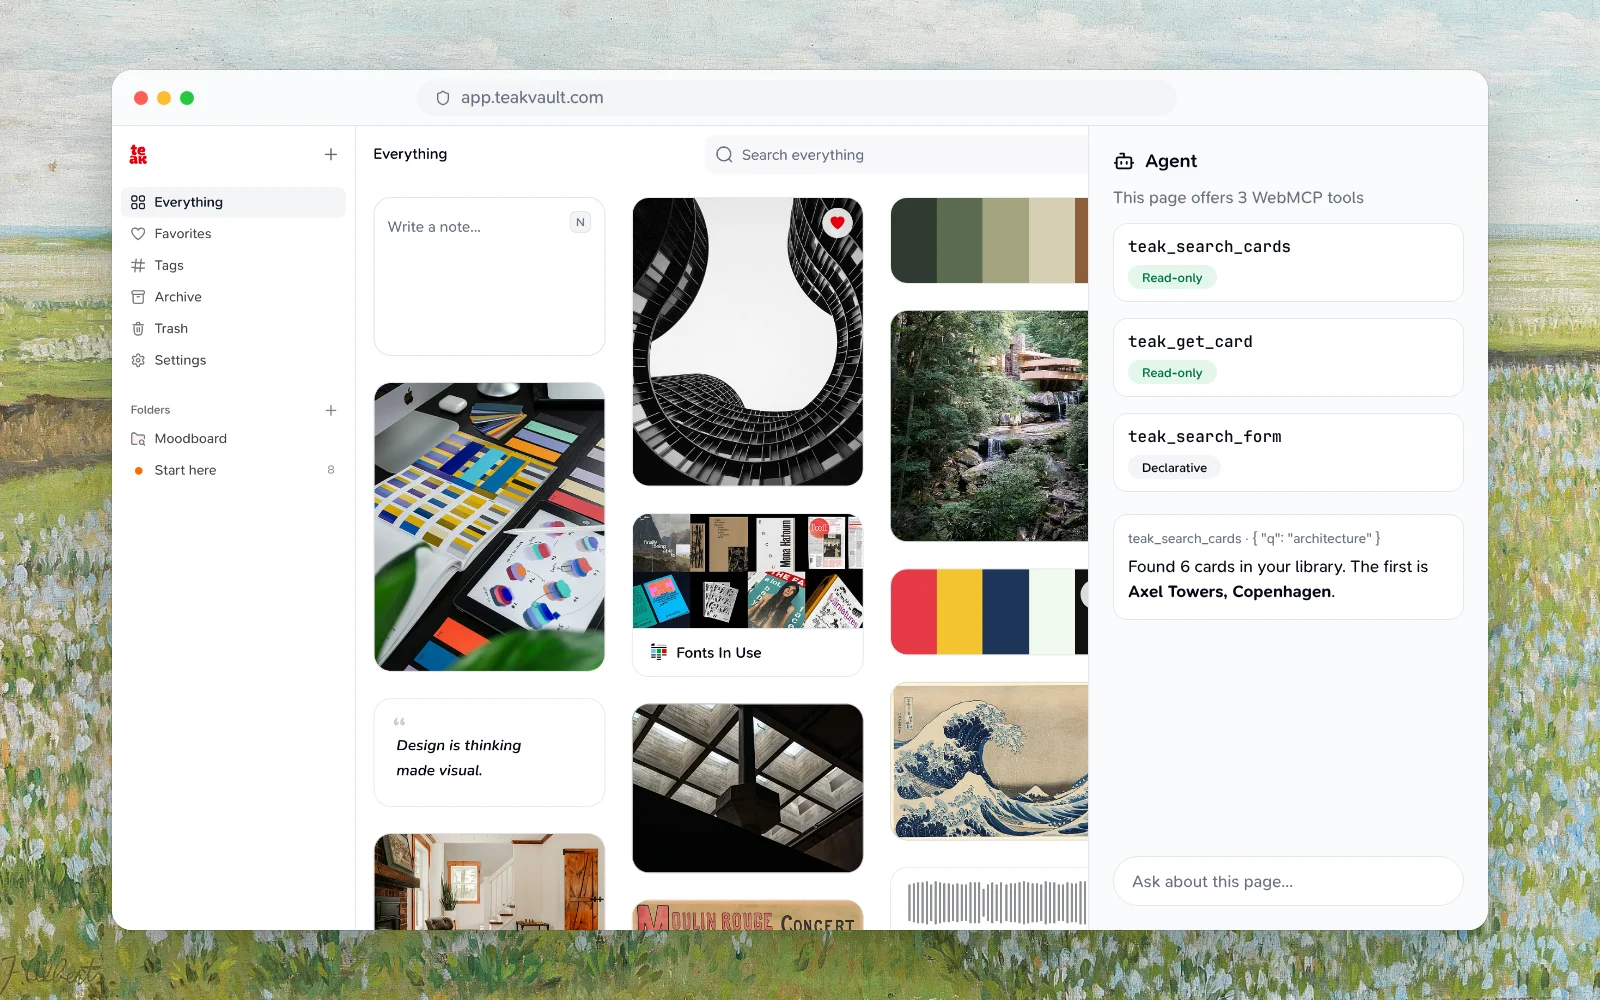
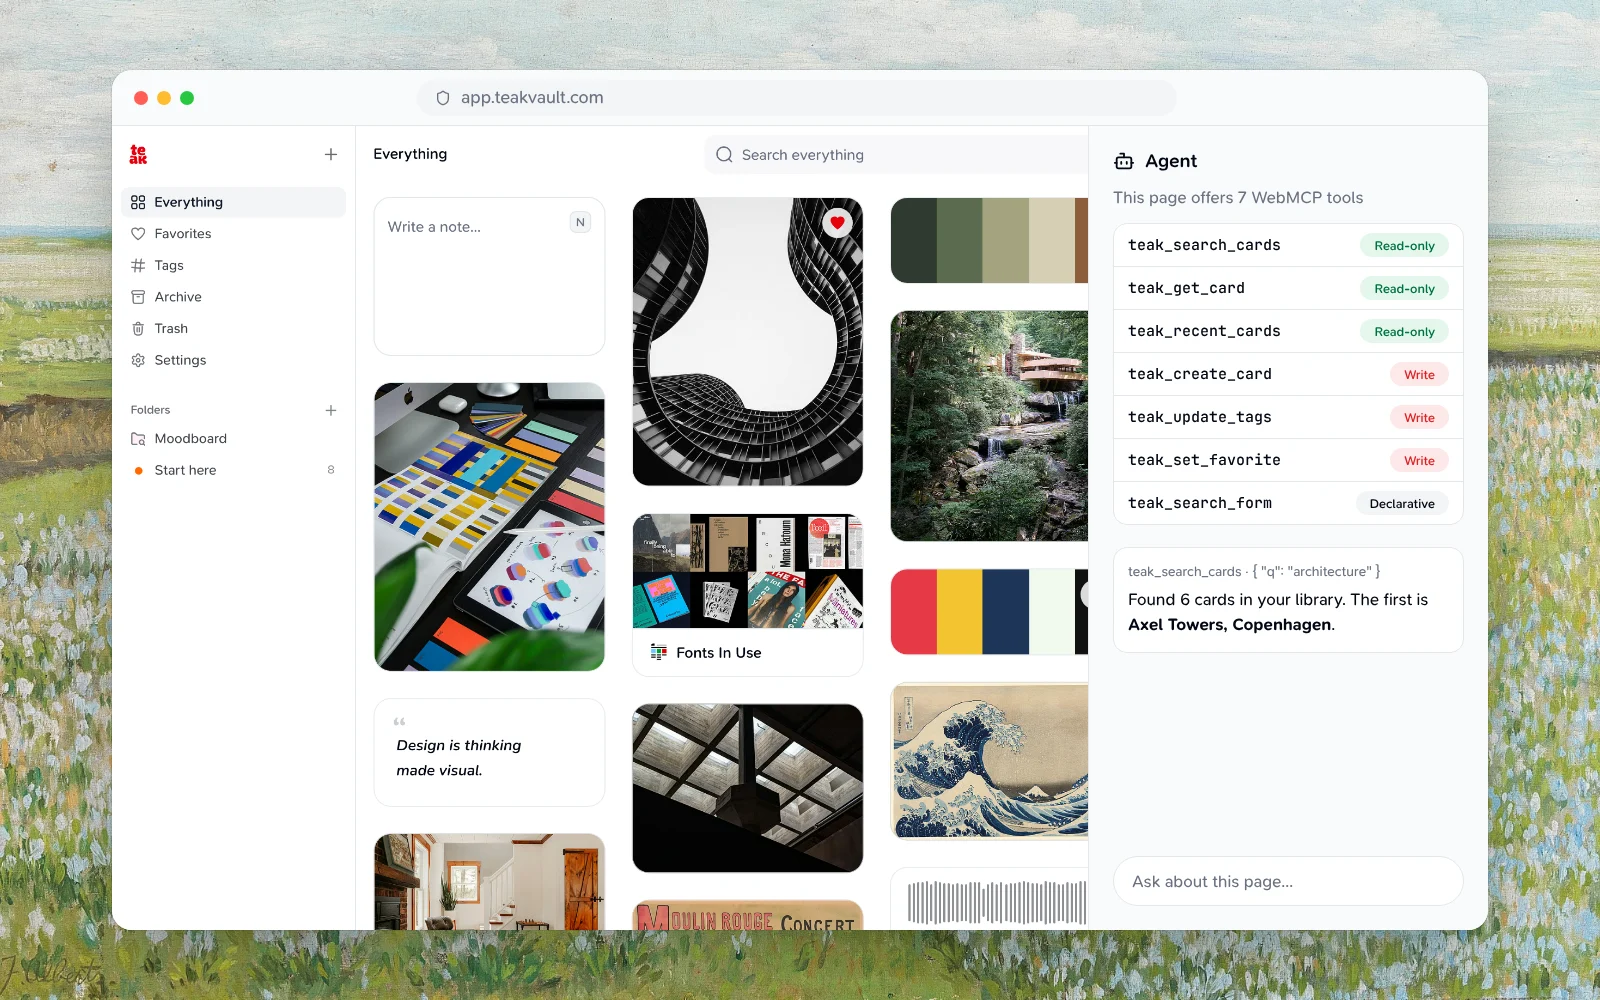
fix(docs): render the note links image, and correct three image details
- The note links image's alt text had `[[`, which ended the Markdown
  image early, so Features showed stray text instead of the picture. The
  alt drops the brackets, and shots.test.ts now rejects brackets in any
  alt text.
- The development image's alt text described bun run dev --status; it
  shows bun run dev --detach and then bun run doctor.
- The WebMCP mock listed 3 tools; the web app registers 7.
- capture.ts escapes every regex character in the account's email before
  matching it (CodeQL).
- The home demo's View icon is decorative, not an inert button.

Claude-Session: https://claude.ai/code/session_01QtYSD42D7a4JT75MdFQKus

diff --git a/scripts/docs-assets/mocks.ts b/scripts/docs-assets/mocks.ts
@@ -360,6 +360,11 @@ const extension = () => `
       <span style="display:flex;align-items:center;gap:6px;border:1px solid var(--border);border-radius:999px;padding:6px 12px">${icon("upload", 15)} Upload file</span></div>
   </div>`;
 
+const PILL_TONE: Record<string, string> = {
+  "Read-only": "green",
+  Write: "red",
+};
+
 const webmcp = (library: string) =>
   win(
     "app.teakvault.com",
@@ -367,21 +372,26 @@ const webmcp = (library: string) =>
       <div style="flex:1;overflow:hidden;background:url('${library}') left top/auto 100% no-repeat"></div>
       <div style="width:400px;border-left:1px solid var(--border);background:oklch(0.985 0.002 247.839);padding:24px;display:flex;flex-direction:column;gap:16px;font-size:17px">
         <div style="display:flex;align-items:center;gap:10px;font-weight:600;font-size:19px">${icon("bot", 22)} Agent</div>
-        <div style="color:var(--muted)">This page offers 3 WebMCP tools</div>
+        <div style="color:var(--muted)">This page offers 7 WebMCP tools</div>
+        <div style="background:#fff;border:1.5px solid var(--border);border-radius:14px;overflow:hidden">
         ${[
+          // apps/web/src/lib/webmcp.ts registers these six; the search box is the seventh.
           ["teak_search_cards", "Read-only"],
           ["teak_get_card", "Read-only"],
+          ["teak_recent_cards", "Read-only"],
+          ["teak_create_card", "Write"],
+          ["teak_update_tags", "Write"],
+          ["teak_set_favorite", "Write"],
           ["teak_search_form", "Declarative"],
         ]
           .map(
-            ([
-              name,
-              kind,
-            ]) => `<div style="background:#fff;border:1.5px solid var(--border);border-radius:14px;padding:12px 14px">
-              <div style="font-family:var(--mono);font-size:16px;font-weight:600">${name}</div>
-              <span class="pill ${kind === "Read-only" ? "green" : ""}" style="height:24px;font-size:13px;margin-top:8px">${kind}</span></div>`
+            ([name, kind], index) =>
+              `<div style="display:flex;align-items:center;justify-content:space-between;gap:10px;padding:9px 14px;${index ? "border-top:1px solid var(--border)" : ""}">
+              <span style="font-family:var(--mono);font-size:15px;font-weight:600">${name}</span>
+              <span class="pill ${PILL_TONE[kind] ?? ""}" style="height:24px;font-size:13px">${kind}</span></div>`
           )
           .join("")}
+        </div>
         <div style="margin-top:6px;background:#fff;border:1.5px solid var(--border);border-radius:14px;padding:14px;line-height:1.45">
           <div style="font-size:14px;color:var(--muted);margin-bottom:6px">teak_search_cards · { "q": "architecture" }</div>
           Found 6 cards in your library. The first is <b>Axel Towers, Copenhagen</b>.</div>

diff --git a/scripts/docs-assets/shots.ts b/scripts/docs-assets/shots.ts
@@ -121,7 +121,7 @@ export const SHOTS: Shot[] = [
     name: "note-links",
     kind: "web",
     layout: "focus",
-    alt: "A note linking two cards with [[, each shown as a pill with the card's type and title",
+    alt: "A note linking two cards, each shown as a pill with the card's type and title",
   },
   {
     name: "note-table",
@@ -211,7 +211,7 @@ export const SHOTS: Shot[] = [
     name: "webmcp",
     kind: "mock",
     mock: "webmcp",
-    alt: "The Teak web app in a browser, with an agent panel listing the page's WebMCP tools",
+    alt: "The Teak web app in a browser, with an agent panel listing the page's seven WebMCP tools",
   },
   {
     name: "ai-agents",
@@ -241,7 +241,7 @@ export const SHOTS: Shot[] = [
     name: "development",
     kind: "mock",
     mock: "development",
-    alt: "A terminal running bun run dev --detach, then bun run dev --status with the ports, URLs and sign-in",
+    alt: "A terminal running bun run dev --detach, which prints the app's URL, sign-in and ports, then bun run doctor with its checks",
   },
   {
     name: "testing",

diff --git a/scripts/docs-assets/shots.test.ts b/scripts/docs-assets/shots.test.ts
@@ -76,6 +76,12 @@ describe("docs images", () => {
     ).toEqual([]);
   });
 
+  test("alt texts have no brackets, which would end a Markdown image's alt early", () => {
+    expect(
+      SHOTS.filter((shot) => /[[\]]/.test(shot.alt)).map((shot) => shot.name)
+    ).toEqual([]);
+  });
+
   test("shot names are unique and every file is a 1600 × 1000 WebP", () => {
     expect(new Set(SHOTS.map((shot) => shot.name)).size).toBe(SHOTS.length);
     for (const shot of docsShots) {

diff --git a/scripts/docs-assets/capture.ts b/scripts/docs-assets/capture.ts
@@ -49,7 +49,7 @@ const app = stack.urls.appOrigin;
 /** Docs show a made-up person, never the stack's account or its devices. */
 const REPLACEMENTS: [RegExp, string][] = [
   [
-    new RegExp(stack.account.email.replace(/[.+]/g, "\\$&"), "g"),
+    new RegExp(stack.account.email.replace(/[.*+?^${}()|[\]\\]/g, "\\$&"), "g"),
     "alex@example.com",
   ],
   [/^Teak Developer$/, "Alex Rivera"],
